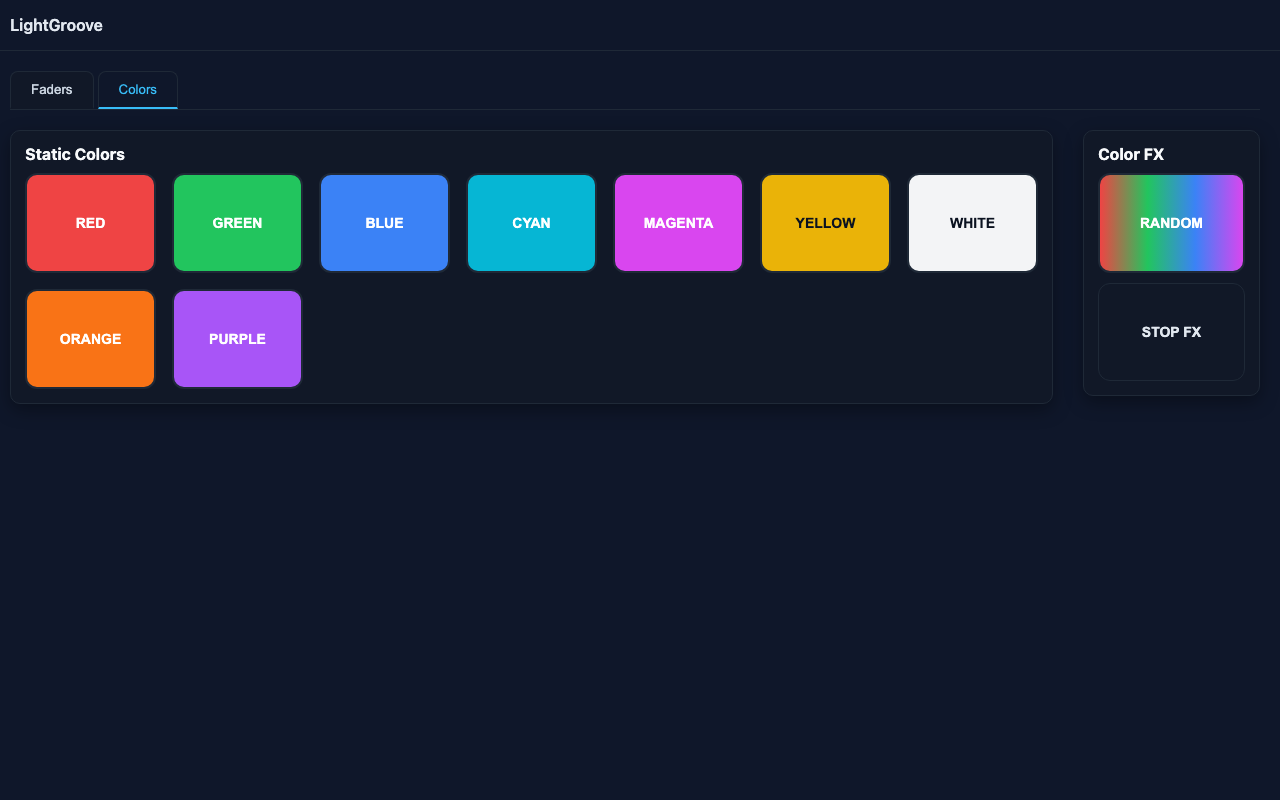
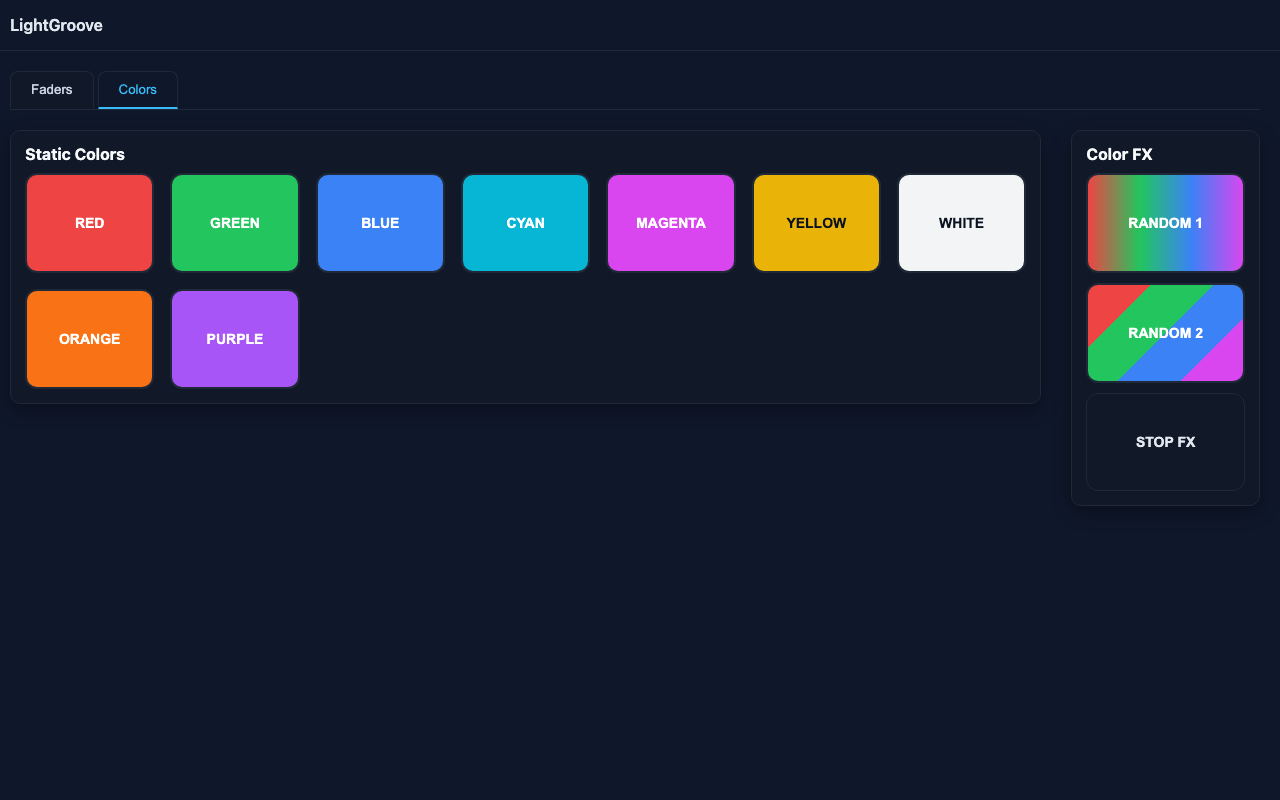
Add Random 1 and Random 2 color FX programs
- Random 1: All fixtures receive same random color (previous behavior)
- Random 2: Each fixture gets its own random color
- Both programs avoid consecutive color repetition
- Updated UI with separate buttons for each mode
- Removed automatic pre-push hook

diff --git a/src/templates/tab_colors.html b/src/templates/tab_colors.html
@@ -9,7 +9,8 @@
     <div class="card" style="width: fit-content;">
       <h3>Color FX</h3>
       <div style="display: flex; flex-direction: column; gap: 10px;">
-        <button class="color-btn" id="fx-random" style="background: linear-gradient(90deg, #ef4444, #22c55e, #3b82f6, #d946ef); color: white;">Random</button>
+        <button class="color-btn" id="fx-random-1" style="background: linear-gradient(90deg, #ef4444, #22c55e, #3b82f6, #d946ef); color: white;">Random 1</button>
+        <button class="color-btn" id="fx-random-2" style="background: linear-gradient(135deg, #ef4444 0%, #ef4444 25%, #22c55e 25%, #22c55e 50%, #3b82f6 50%, #3b82f6 75%, #d946ef 75%, #d946ef 100%); color: white;">Random 2</button>
         <button class="color-btn secondary" id="fx-stop">Stop FX</button>
       </div>
     </div>

diff --git a/src/templates/base.html b/src/templates/base.html
@@ -234,9 +234,14 @@
     }
 
     // Color FX controls
-    document.getElementById('fx-random').addEventListener('click', async () => {
+    document.getElementById('fx-random-1').addEventListener('click', async () => {
       window.manuallySelected = false;
-      await post(`${apiBase}/api/fx/start`, { fx: 'random' });
+      await post(`${apiBase}/api/fx/start`, { fx: 'random_1' });
+    });
+
+    document.getElementById('fx-random-2').addEventListener('click', async () => {
+      window.manuallySelected = false;
+      await post(`${apiBase}/api/fx/start`, { fx: 'random_2' });
     });
 
     document.getElementById('fx-stop').addEventListener('click', async () => {

diff --git a/src/color_manager.py b/src/color_manager.py
@@ -63,10 +63,14 @@ class ColorFXEngine:
         self.running = True
         self.stop_event.clear()
         
-        if fx_name == 'random':
+        if fx_name == 'random' or fx_name == 'random_1':
             self.fx_thread = threading.Thread(target=self._run_random_fx, daemon=True)
             self.fx_thread.start()
-            print(f"Color FX: Started 'random' effect at {self.bpm} BPM")
+            print(f"Color FX: Started 'random_1' effect at {self.bpm} BPM")
+        elif fx_name == 'random_2':
+            self.fx_thread = threading.Thread(target=self._run_random_2_fx, daemon=True)
+            self.fx_thread.start()
+            print(f"Color FX: Started 'random_2' effect at {self.bpm} BPM")
         else:
             print(f"Color FX: Unknown effect '{fx_name}'")
             self.running = False
@@ -83,7 +87,7 @@ class ColorFXEngine:
             # Keep current_color to preserve highlighted state
             
     def _run_random_fx(self):
-        """Random color cycling effect."""
+        """Random color cycling effect - all fixtures same color."""
         color_names = list(COLORS.keys())
         # Map short keys to actual fixture channel names
         channel_map = {'r': 'red', 'g': 'green', 'b': 'blue', 'w': 'white'}
@@ -106,6 +110,42 @@ class ColorFXEngine:
                         self.fixture_manager.set_fixture_channel(fixture_id, channel_name, value)
                     except:
                         pass  # Ignore fixtures without this channel
+                        
+            # Wait for next beat
+            if self.stop_event.wait(self.get_interval()):
+                break
+    
+    def _run_random_2_fx(self):
+        """Random color cycling effect - each fixture gets different color."""
+        color_names = list(COLORS.keys())
+        # Map short keys to actual fixture channel names
+        channel_map = {'r': 'red', 'g': 'green', 'b': 'blue', 'w': 'white'}
+        fixture_last_colors = {}  # Track last color per fixture
+        
+        while self.running:
+            fixtures = self.fixture_manager.list_fixtures()
+            
+            # Apply different random color to each fixture
+            for fixture_id in fixtures:
+                # Pick random color for this fixture (avoid repeating)
+                last_color = fixture_last_colors.get(fixture_id)
+                available_colors = [c for c in color_names if c != last_color]
+                if not available_colors:
+                    available_colors = color_names
+                color_name = random.choice(available_colors)
+                fixture_last_colors[fixture_id] = color_name
+                
+                color_values = COLORS[color_name]
+                for short_key, value in color_values.items():
+                    channel_name = channel_map.get(short_key, short_key)
+                    try:
+                        self.fixture_manager.set_fixture_channel(fixture_id, channel_name, value)
+                    except:
+                        pass  # Ignore fixtures without this channel
+            
+            # Track first fixture's color for UI display
+            if fixtures:
+                self.current_color = fixture_last_colors.get(fixtures[0])
                         
             # Wait for next beat
             if self.stop_event.wait(self.get_interval()):
